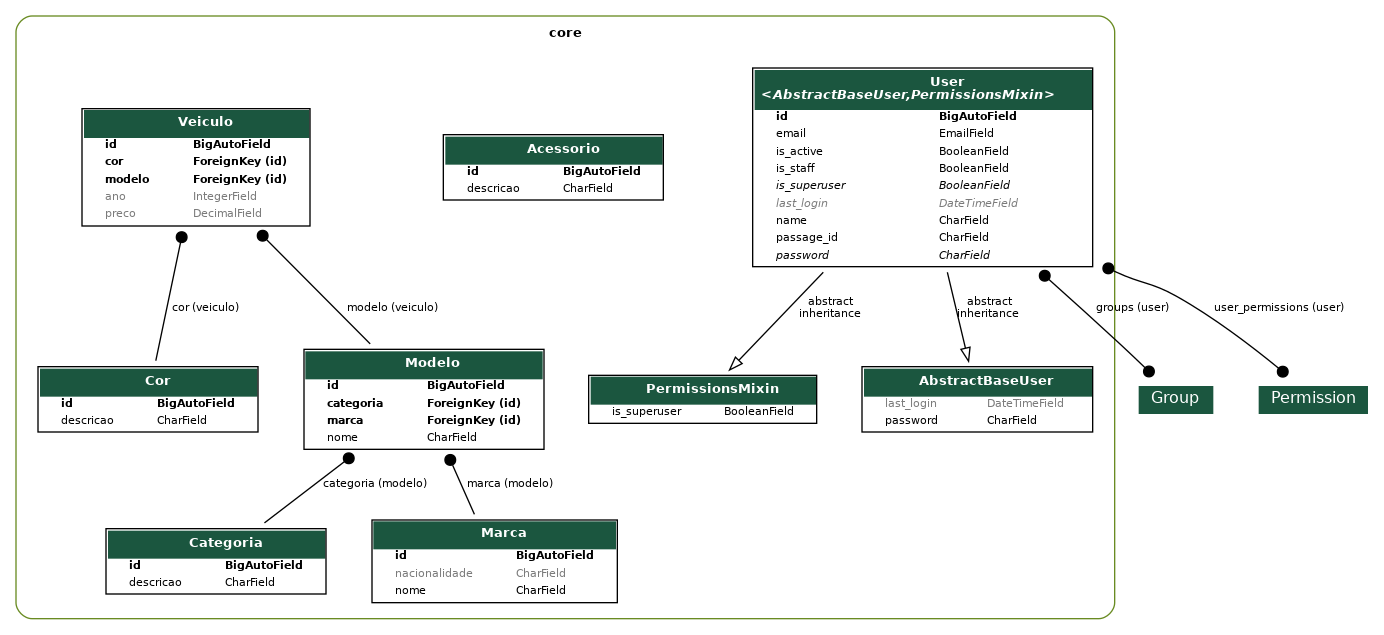
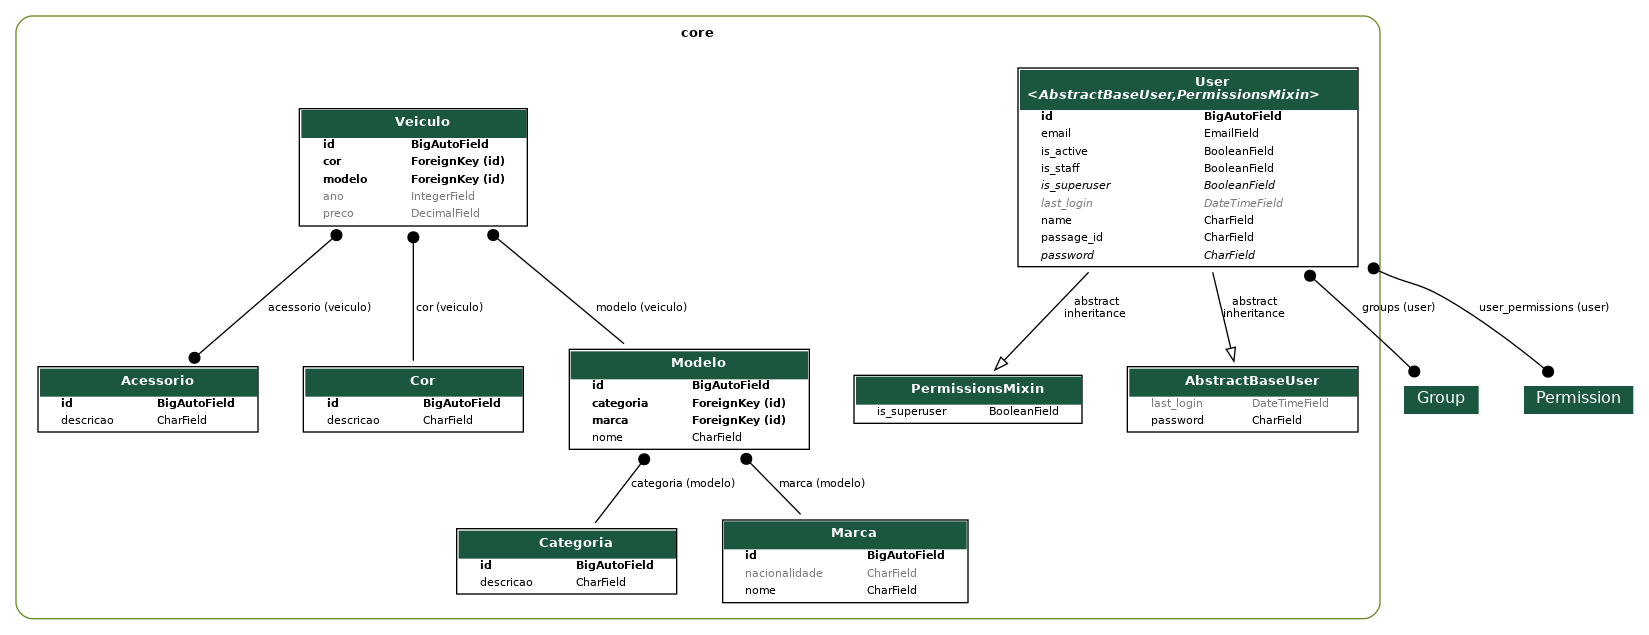
concerto de erro em veículos

diff --git a/core/migrations/0008_veiculo_acessorio.py b/core/migrations/0008_veiculo_acessorio.py
@@ -1,0 +1,18 @@
+# Generated by Django 5.0.6 on 2024-07-12 11:33
+
+from django.db import migrations, models
+
+
+class Migration(migrations.Migration):
+
+    dependencies = [
+        ("core", "0007_alter_cor_options_veiculo"),
+    ]
+
+    operations = [
+        migrations.AddField(
+            model_name="veiculo",
+            name="acessorio",
+            field=models.ManyToManyField(to="core.acessorio"),
+        ),
+    ]

diff --git a/core/admin.py b/core/admin.py
@@ -56,3 +56,4 @@ admin.site.register(models.Categoria)
 admin.site.register(models.Cor)
 admin.site.register(models.Marca)
 admin.site.register(models.Modelo)
+admin.site.register(models.Veiculo)
